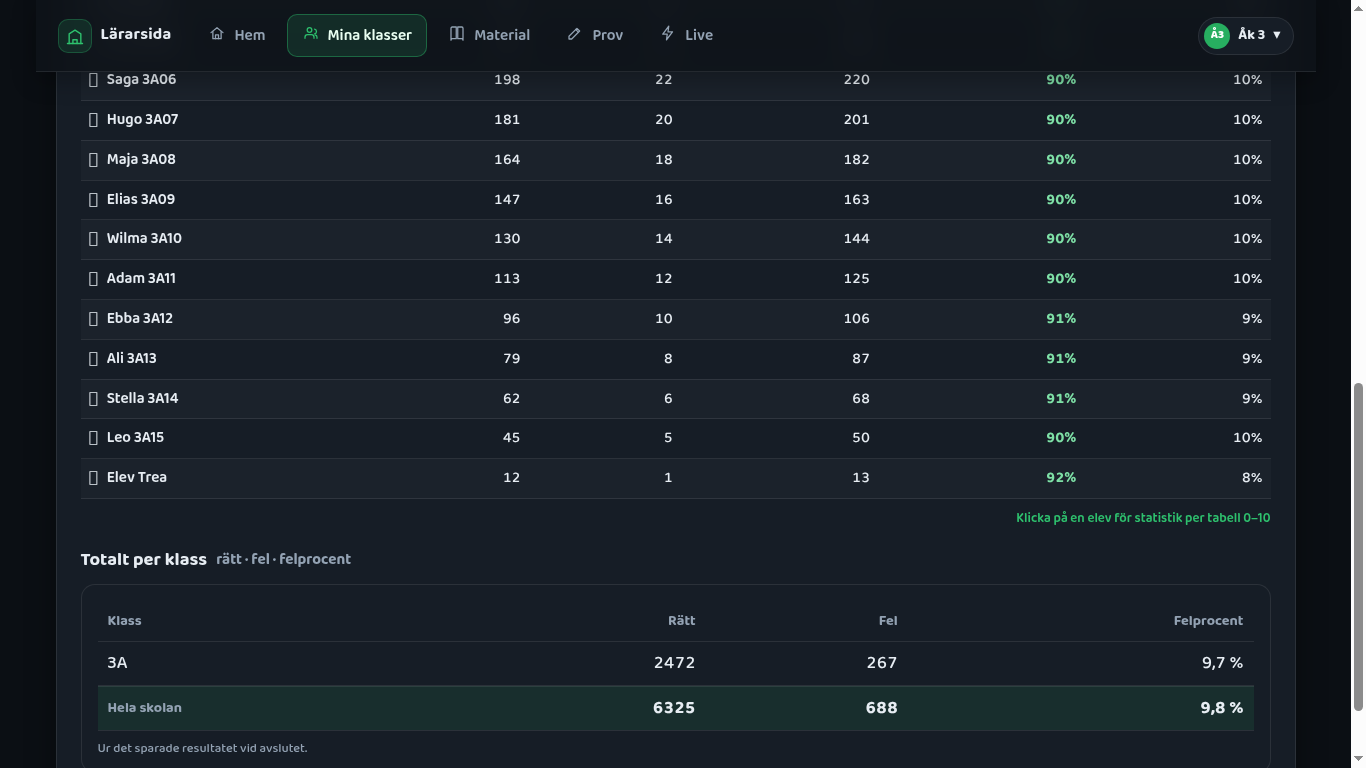
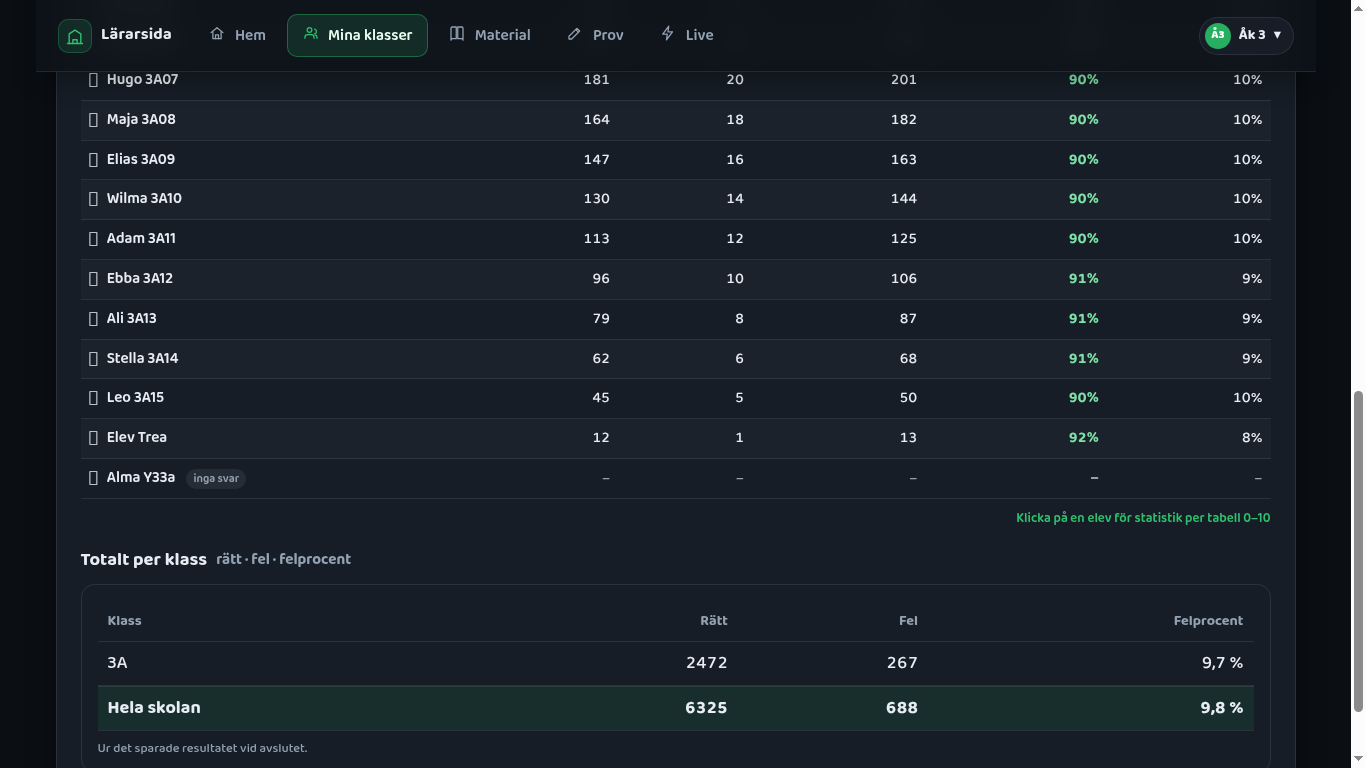
issue #863: rättningsrunda 1 – F1 loadStatsFor where classId== för årskurskonto (elev utan studentStats dödade fliken), F2 Hela skolan ur result.students (deltagande klasser), F3 kapat result → not + ?, F4 spec CRLF återställd, F5 radetiketter i normal stil; seed ny3a utan stats

diff --git a/src/tavling/mm-teacher-core.js b/src/tavling/mm-teacher-core.js
@@ -17,7 +17,7 @@
 //                                   → historik-ögonblicksbild (MathCompetition.result)
 //   studentRows(students, statsById) → en rad per elev för klasstabellen
 //   MM_COLUMNS, sortMmRows(rows, key, dir), nextMmSort(cur, key)
-//   classTotals({ stats, classes, participatingIds, classIds, skola })
+//   classTotals({ stats, classes, participatingIds, classIds, fullstandig, kapad })
 //                                   → rätt/fel/felprocent per klass, per årskurs
 //                                     och hela skolan (#863)
 //   formatFelprocent(pctWrong)      → "12,5 %" | "–"
@@ -248,61 +248,56 @@ const summa = (rows) => {
  * @param {object[]} a.classes          [{ id, name }] (namn; saknas → id)
  * @param {string[]} a.participatingIds matchens klasser (ordning = klassnamn)
  * @param {Set<string>|null} [a.classIds] årskurskontots klasser (null = admin, alla)
- * @param {object|null} [a.skola]       hela skolans totals när raderna är
- *                                      filtrerade (result.totals); annars
- *                                      summan av raderna
- * @returns {{ rows, arskurser, skola, filtrerad }}
- *   rows      [{ classId, name, correct, incorrect, total, pctWrong }] per klass
+ * @param {boolean} [a.fullstandig]     stats täcker ALLA matchens klasser (admin,
+ *                                      eller result.students) → Hela skolan kan
+ *                                      räknas även när raderna är filtrerade
+ * @param {boolean} [a.kapad]           result.students nådde RESULT_STUDENTS_MAX –
+ *                                      elever med få rätt kan saknas
+ * @returns {{ rows, arskurser, skola, mina, filtrerad, kapad, skolanLabel }}
+ *   rows      [{ classId, name, ak, correct, incorrect, total, pctWrong }] per
+ *             klass – årskurskontots egna klasser, annars alla
  *   arskurser [{ ak, label, correct, incorrect, total, pctWrong }] – bara när
- *             klasserna spänner över mer än en årskurs, annars []
- *   skola     { correct, incorrect, total, pctWrong } – hela skolan, eller
- *             null när kontot bara ser sina klasser och ingen skoltotal finns
+ *             raderna spänner över mer än en årskurs och någon årskurs har fler
+ *             än en klass, annars []
+ *   skola     { correct, incorrect, total, pctWrong } = summan av matchens
+ *             deltagande klasser (elever i klasser som lämnat matchen räknas
+ *             inte, som i Klasskampen), eller null när stats bara täcker
+ *             kontots egna klasser (pågående match, årskurskonto)
  *   mina      summan av rows när de är filtrerade ("Mina klasser"), annars null
  *   filtrerad true när rows inte är alla matchens klasser (årskurskonto)
  */
-export function classTotals({ stats, classes, participatingIds, classIds = null, skola = null }) {
+export function classTotals({ stats, classes, participatingIds, classIds = null, fullstandig = false, kapad = false }) {
   const byId = new Map((classes || []).map((k) => [k.id, k]));
   const alla = [...new Set(participatingIds || [])];
-  const mina = classIds ? alla.filter((id) => classIds.has(id)) : alla;
-  const sum = new Map(mina.map((id) => [id, { correct: 0, incorrect: 0 }]));
+  const sum = new Map(alla.map((id) => [id, { correct: 0, incorrect: 0 }]));
   for (const s of stats || []) {
     const acc = s && sum.get(s.classId);
     if (!acc) continue;
     acc.correct += Math.max(0, Number(s.correct) || 0);
     acc.incorrect += Math.max(0, Number(s.incorrect) || 0);
   }
-  const rows = mina
+  const allaRader = alla
     .map((classId) => {
       const { correct, incorrect } = sum.get(classId);
       const name = String(byId.get(classId)?.name || classId);
       return { classId, name, ak: arskursAvKlass(name), correct, incorrect, total: correct + incorrect, pctWrong: felprocent(correct, incorrect) };
     })
     .sort((a, b) => a.name.localeCompare(b.name, "sv"));
-  // Delsumma per årskurs (#845 arskursAvKlass) – bara om det finns fler än en.
+  const rows = classIds ? allaRader.filter((r) => classIds.has(r.classId)) : allaRader;
+  // Delsumma per årskurs (#845 arskursAvKlass) – bara om det finns fler än en
+  // (och någon årskurs har fler än en klass – annars vore delsumman = klassraden).
   const perAk = new Map();
   for (const r of rows) {
     if (!perAk.has(r.ak)) perAk.set(r.ak, []);
     perAk.get(r.ak).push(r);
   }
   const akOrdning = [...perAk.keys()].sort((a, b) => (a === OVRIGA ? 1 : b === OVRIGA ? -1 : a - b));
-  // (och någon årskurs har fler än en klass – annars vore delsumman = klassraden).
   const arskurser = perAk.size > 1 && [...perAk.values()].some((l) => l.length > 1)
     ? akOrdning.map((ak) => ({ ak, label: arskursLabel(ak), ...summa(perAk.get(ak)) }))
     : [];
-  const filtrerad = mina.length !== alla.length;
-  const egen = summa(rows);
-  // Hela skolan: det sparade result.totals när det finns (räknat på ALLA
-  // elever vid avslutet – result.students är kapat vid RESULT_STUDENTS_MAX),
-  // annars summan av raderna; filtrerade rader utan skoltotal → ingen rad.
-  let total = egen;
-  if (skola && Number.isFinite(Number(skola.correct))) {
-    const c = Math.max(0, Number(skola.correct) || 0);
-    const w = Math.max(0, Number(skola.incorrect) || 0);
-    total = { correct: c, incorrect: w, total: c + w, pctWrong: felprocent(c, w) };
-  } else if (filtrerad) {
-    total = null;
-  }
-  return { rows, arskurser, skola: total, mina: filtrerad ? egen : null, filtrerad, skolanLabel: SKOLAN };
+  const filtrerad = rows.length !== allaRader.length;
+  const skola = !filtrerad || fullstandig ? summa(allaRader) : null;
+  return { rows, arskurser, skola, mina: filtrerad ? summa(rows) : null, filtrerad, kapad: !!kapad, skolanLabel: SKOLAN };
 }
 
 /** Kolumner i visningsordning (spec: Elev | Rätt | Fel | Totalt | Rätt % | Fel %). */

diff --git a/src/tavling/teacher-mm-totalt.js b/src/tavling/teacher-mm-totalt.js
@@ -7,20 +7,23 @@
 // + totalraden "Hela skolan".
 //
 // Siffrorna (ren logik: mm-teacher-core.classTotals, HTML: mm-totalt-html.js):
-//   • avslutad med sparat result → ur result.students/result.totals, INGA
-//     extra läsningar (ögonblicksbilden tas vid avslutet).
+//   • avslutad med sparat result → ur result.students, INGA extra läsningar
+//     (ögonblicksbilden tas vid avslutet; kapad vid RESULT_STUDENTS_MAX → not
+//     och "?" i stället för "–"). Hela skolan = matchens deltagande klasser
+//     (inte result.totals, som även räknar elever i klasser som lämnat matchen).
 //   • pågående (eller avslutad utan result) → studentStats via
 //     mm-teacher-data.loadStatsForClasses: en läsning per elev som svarat.
 //     Fel per klass finns inte aggregerat (classCounters har bara rätt).
 // Behörighet (#678): admin ser alla klasser + Hela skolan. Ett årskurskonto
 // ser bara sina klasser (reglerna släpper bara dem) + "Mina klasser"; Hela
-// skolan visas för årskurskontot bara när det sparade result.totals finns
-// (avslutad match) – i en pågående match kan det inte läsa andras fel.
+// skolan visas för årskurskontot bara i en avslutad match (ur det sparade
+// result.students, samma summa som admin ser) – i en pågående match kan det
+// inte läsa andras fel.
 // Laddas DYNAMISKT (#271).
 // ============================================================================
 
 import { el, esc, icon } from "../teacher-shared.js";
-import { classTotals } from "./mm-teacher-core.js";
+import { RESULT_STUDENTS_MAX, classTotals } from "./mm-teacher-core.js";
 import { totalsHtml } from "./mm-totalt-html.js";
 
 /**
@@ -42,10 +45,14 @@ export function renderClassTotals(host, comp, { api, classes, role }) {
   const sparat = comp.result && Array.isArray(comp.result.students) ? comp.result : null;
   let busy = false;
 
-  const rita = (stats, skola) => {
-    const t = classTotals({ stats, classes, participatingIds: comp.participatingClassIds, classIds, skola });
+  const rita = (stats) => {
+    // Sparat result täcker alla klasser (kontot läser hela tävlingsdokumentet);
+    // pågående: bara admin läser alla klassers studentStats.
+    const kapad = !!sparat && (stats.length >= RESULT_STUDENTS_MAX || (Number(sparat.totals?.participants) || 0) > stats.length);
+    const t = classTotals({ stats, classes, participatingIds: comp.participatingClassIds, classIds, fullstandig: !!sparat || !classIds, kapad });
     body.innerHTML = totalsHtml(t);
     const delar = [sparat ? "Ur det sparade resultatet vid avslutet." : "Live-svar i multiplikation räknas in (#847)."];
+    if (kapad) delar.push(`Resultatet sparade bara de ${RESULT_STUDENTS_MAX} elever som hade flest rätt – siffrorna kan vara lägre än de verkliga (? = kan saknas).`);
     if (t.filtrerad && !t.skola) delar.push("Hela skolan visas när matchen är avslutad.");
     not.textContent = delar.join(" ");
   };
@@ -56,10 +63,10 @@ export function renderClassTotals(host, comp, { api, classes, role }) {
     btn.disabled = true;
     try {
       if (sparat) {
-        rita(sparat.students, sparat.totals);
+        rita(sparat.students);
       } else {
         const stats = await api.loadStatsForClasses(comp.id, classIds ? [...classIds] : null);
-        rita(stats, null);
+        rita(stats);
         stamp.textContent = `Uppdaterad ${new Date().toLocaleTimeString("sv-SE", { hour: "2-digit", minute: "2-digit", second: "2-digit" })}`;
       }
     } catch (err) {

diff --git a/test/mm-teacher-totalt-863.test.js b/test/mm-teacher-totalt-863.test.js
@@ -72,10 +72,11 @@ describe("classTotals – årskurskonto (bara egna klasser)", () => {
     assert.equal(t.skola, null);
     assert.deepEqual(t.arskurser, []);
   });
-  it("avslutad: Hela skolan ur det sparade result.totals som ett enda tal", () => {
-    const t = classTotals({ stats, classes, participatingIds: ids, classIds: egna, skola: { correct: 22, incorrect: 5 } });
+  it("avslutad (fullständiga stats ur result.students): Hela skolan som ett enda tal, bara egna rader", () => {
+    const t = classTotals({ stats, classes, participatingIds: ids, classIds: egna, fullstandig: true });
     assert.deepEqual(t.skola, { correct: 22, incorrect: 5, total: 27, pctWrong: 18.5 });
     assert.deepEqual(t.rows.map((r) => r.name), ["3A"]);
+    assert.equal(t.filtrerad, true);
   });
   it("kontot utan klasser i matchen → inga rader", () => {
     const t = classTotals({ stats, classes, participatingIds: ids, classIds: new Set(["9z"]) });
@@ -99,10 +100,20 @@ describe("avslutad match: samma siffror ur result som ur studentStats", () => {
     assert.deepEqual(sparat.rows, live.rows);
     assert.deepEqual(sparat.skola, live.skola);
   });
-  it("admin: Hela skolan ur result.totals även när result.students är kapat", () => {
-    const t = classTotals({ stats: stats.slice(0, 1), classes, participatingIds: ids, skola: { correct: 22, incorrect: 5 } });
-    assert.deepEqual(t.skola, { correct: 22, incorrect: 5, total: 27, pctWrong: 18.5 });
-    assert.equal(t.rows[0].correct, 10);
+  it("Hela skolan = matchens klasser, inte result.totals (klass som lämnat matchen räknas inte)", () => {
+    const result = buildResult({ scores: [], stats: stats.filter(Boolean), counters: [], classes, participatingIds: ids, now: 0 });
+    assert.equal(result.totals.correct, 121); // 5x-eleven är med i totals …
+    const t = classTotals({ stats: result.students, classes, participatingIds: ids, fullstandig: true });
+    assert.equal(t.skola.correct, 22); // … men inte i Hela skolan
+    assert.equal(t.skola.incorrect, 5);
+  });
+  it("kapat result: flaggan följer med, rader utan svar visar ? i stället för –", () => {
+    const t = classTotals({ stats: stats.slice(0, 1), classes, participatingIds: ids, fullstandig: true, kapad: true });
+    assert.equal(t.kapad, true);
+    const html = totalsHtml(t);
+    assert.match(html, /<td>4B<\/td><td class="lrt-num"><span class="lrt-dash mmt-okant"[^>]*>\?<\/span>/);
+    assert.doesNotMatch(html, /inga svar än/);
+    assert.equal(classTotals({ stats, classes, participatingIds: ids }).kapad, false);
   });
 });
 

diff --git a/src/tavling/mm-totalt-html.js b/src/tavling/mm-totalt-html.js
@@ -12,9 +12,11 @@ import { formatFelprocent } from "./mm-teacher-core.js";
 
 const esc = (s) => String(s == null ? "" : s).replace(/[&<>"]/g, (c) => `&#${c.charCodeAt(0)};`);
 const dash = `<span class="lrt-dash" aria-label="inga svar än">–</span>`;
+// Kapat result (#863 F3): en klass utan rader kan ha svar som inte sparades.
+const okant = `<span class="lrt-dash mmt-okant" title="Kan saknas i det kapade resultatet" aria-label="okänt – kapat resultat">?</span>`;
 
-function rad(r, cls = "") {
-  const n = (v) => (r.total > 0 ? String(v) : dash);
+function rad(r, cls = "", kapad = false) {
+  const n = (v) => (r.total > 0 ? String(v) : kapad ? okant : dash);
   const namn = cls ? `<th scope="row">${esc(r.name)}</th>` : `<td>${esc(r.name)}</td>`;
   return `<tr class="${cls}">${namn}<td class="lrt-num">${n(r.correct)}</td><td class="lrt-num">${n(r.incorrect)}</td>
     <td class="lrt-num">${formatFelprocent(r.pctWrong)}</td></tr>`;
@@ -27,15 +29,15 @@ export function totalsHtml(t) {
   // Flera årskurser: klasserna årskursvis med en delsumma efter varje; annars bara klasserna.
   if (t.arskurser.length) {
     for (const a of t.arskurser) {
-      body.push(...t.rows.filter((r) => r.ak === a.ak).map((r) => rad(r)));
-      body.push(rad({ ...a, name: `${a.label} totalt` }, "mmt-tot-ak"));
+      body.push(...t.rows.filter((r) => r.ak === a.ak).map((r) => rad(r, "", t.kapad)));
+      body.push(rad({ ...a, name: `${a.label} totalt` }, "mmt-tot-ak", t.kapad));
     }
   } else {
-    body.push(...t.rows.map((r) => rad(r)));
+    body.push(...t.rows.map((r) => rad(r, "", t.kapad)));
   }
   // "Mina klasser" bara när den säger något mer än den enda klassraden.
-  if (t.mina && t.rows.length > 1) body.push(rad({ ...t.mina, name: "Mina klasser" }, "mmt-tot-skola"));
-  if (t.skola) body.push(rad({ ...t.skola, name: t.skolanLabel }, "mmt-tot-skola"));
+  if (t.mina && t.rows.length > 1) body.push(rad({ ...t.mina, name: "Mina klasser" }, "mmt-tot-skola", t.kapad));
+  if (t.skola) body.push(rad({ ...t.skola, name: t.skolanLabel }, "mmt-tot-skola", t.kapad));
   return `<div class="table-scroll"><table class="tbl mmt-totalt-tbl">
     <thead><tr><th scope="col">Klass</th><th scope="col" class="lrt-num">Rätt</th>
       <th scope="col" class="lrt-num">Fel</th><th scope="col" class="lrt-num">Felprocent</th></tr></thead>

diff --git a/src/tavling/mm-teacher-data.js b/src/tavling/mm-teacher-data.js
@@ -11,7 +11,8 @@
 // Läsningar (KVOT, incident #114 – aldrig svar per elev i tabeller):
 //   listCompetitions        → alla tävlingar (få dokument)
 //   competitionsForClass    → where participatingClassIds array-contains klass
-//   loadStatsFor(cid, ids)  → studentStats för EN klass (documentId in, 30 åt gången)
+//   loadStatsFor(cid, ids, classId) → studentStats för EN klass (admin: documentId
+//                             in, 30 åt gången; årskurskonto: where classId ==)
 //   loadStatsForClasses(cid, classIds) → studentStats för klasserna (#863):
 //                             admin (null) = hela samlingen i EN fråga; års-
 //                             kurskonto = where classId in [...], 30 åt gången
@@ -175,10 +176,23 @@ export async function resetCompetition(cid, onProgress) {
   return counts;
 }
 
-/** studentStats för givna elever (en klass) → Map uid → dokument. */
-export async function loadStatsFor(cid, ids) {
+/**
+ * studentStats för givna elever (en klass) → Map uid → dokument.
+ * Årskurskonto (#863 F1): `documentId in [...]` nekas av reglerna så fort en
+ * elev saknar dokument (resource.data.classId på ett dokument som inte finns)
+ * – därför frågar kontot `where classId == classId` (bara befintliga dokument,
+ * reglerna släpper klassen) och väljer eleverna i klienten. Admin behåller
+ * documentId in (isAdmin() kortsluter regeln).
+ */
+export async function loadStatsFor(cid, ids, classId) {
   const uniq = [...new Set((ids || []).filter(Boolean))];
   const out = new Map();
+  if (classId && !isAdmin()) {
+    const vill = new Set(uniq);
+    const snap = await getDocs(query(collection(db, COL, cid, "studentStats"), where("classId", "==", classId)));
+    snap.docs.forEach((d) => vill.has(d.id) && out.set(d.id, withId(d)));
+    return out;
+  }
   const chunks = [];
   for (let i = 0; i < uniq.length; i += 30) chunks.push(uniq.slice(i, i + 30));
   await Promise.all(

diff --git a/src/tavling/mm-larare.css b/src/tavling/mm-larare.css
@@ -102,7 +102,8 @@
 .teacher-dark .mmt-class-totalt { margin-top: 18px; }
 .teacher-dark .mmt-totalt-tbl { min-width: 420px; }
 .teacher-dark .mmt-totalt-tbl th, .teacher-dark .mmt-totalt-tbl td { padding: 8px 10px; border-bottom: 1px solid var(--t-border); }
-.teacher-dark .mmt-totalt-tbl th[scope="row"] { text-align: left; }
+.teacher-dark .mmt-totalt-tbl th[scope="row"] { text-align: left; font-size: inherit; color: inherit; }
+.teacher-dark .mmt-totalt-tbl .mmt-okant { cursor: help; }
 .teacher-dark .mmt-totalt-tbl .mmt-tot-ak th, .teacher-dark .mmt-totalt-tbl .mmt-tot-ak td { background: rgba(142, 124, 240, 0.08); font-weight: 600; }
 .teacher-dark .mmt-totalt-tbl .mmt-tot-skola th, .teacher-dark .mmt-totalt-tbl .mmt-tot-skola td { background: rgba(46, 193, 110, 0.10); font-weight: 700; border-top: 2px solid var(--t-border); }
 .teacher-dark .mmt-lista { list-style: none; margin: 0; padding: 0; max-height: 520px; overflow: auto; }

diff --git a/src/tavling/teacher-mm-results.js b/src/tavling/teacher-mm-results.js
@@ -164,7 +164,7 @@ export function renderStudentResults(ctx, host, comp, classes, api) {
     body.replaceChildren(el(`<div class="spinner">Laddar elevresultat…</div>`));
     try {
       const ids = Array.isArray(k.studentIds) ? k.studentIds : [];
-      const [students, statsById] = await Promise.all([getStudentsByIds(ids), api.loadStatsFor(comp.id, ids)]);
+      const [students, statsById] = await Promise.all([getStudentsByIds(ids), api.loadStatsFor(comp.id, ids, k.id)]);
       if (sel.value !== k.id) return;
       students.sort((a, b) => String(a.namn || "").localeCompare(String(b.namn || ""), "sv"));
       renderMmTable(ctx, body, { students, statsById, competition: comp });

diff --git a/src/tavling/teacher-mm-stats.js b/src/tavling/teacher-mm-stats.js
@@ -283,7 +283,7 @@ export async function renderClassMattematchen(ctx, host, { classId, students, da
     const comp = comps.find((c) => c.id === sel.value);
     body.replaceChildren(el(`<div class="spinner">Laddar resultat…</div>`));
     try {
-      const statsById = await api.loadStatsFor(comp.id, students.map((s) => s.id));
+      const statsById = await api.loadStatsFor(comp.id, students.map((s) => s.id), classId);
       if (sel.value !== comp.id) return;
       renderMmTable(ctx, body, { students, statsById, competition: comp });
       totalt(comp);

diff --git a/docs/spec-mattematchen-live.md b/docs/spec-mattematchen-live.md
@@ -563,9 +563,12 @@ vald period – årskurskontots väg), för en **pågående** match och för en
 `teacher-mm-totalt.js` – allt laddas lat):
 
 - **Avslutad match med sparat `result`:** inga extra läsningar. Raderna räknas
-  ur `result.students` (classId/correct/incorrect per elev, högst
-  `RESULT_STUDENTS_MAX` = 2000) och Hela skolan ur `result.totals`
-  (räknat på ALLA elever vid avslutet).
+  OCH Hela skolan ur `result.students` (classId/correct/incorrect per elev)
+  – inte ur `result.totals`, som även räknar elever i klasser som lämnat
+  matchen (Hela skolan = summan av matchens deltagande klasser, som
+  Klasskampen). `result.students` är kapat vid `RESULT_STUDENTS_MAX` = 2000
+  (de med flest rätt); då visas en not och klasser utan rader får "?" i
+  stället för "–".
 - **Pågående match** (eller avslutad utan `result`): `studentStats` läses –
   **en läsning per elev som svarat**, bara när läraren öppnar vyn eller
   trycker Uppdatera (ingen lyssnare, ingen automatisk omläsning). Admin
@@ -578,15 +581,19 @@ vald period – årskurskontots väg), för en **pågående** match och för en
 - Inga regel- eller indexändringar: `studentStats` läses redan med
   `hasClass(resource.data.classId)` (`test/firestore-rules-roller-statistik-
   material.test.js` täcker `where classId in`, admin listar hela samlingen
-  som vid avslutet).
+  som vid avslutet). Klasstabellens `loadStatsFor` frågar för ett
+  årskurskonto `where classId == klassen` i stället för `documentId in`:
+  en elev utan `studentStats`-dokument gav annars regelfel
+  (`resource.data` på ett dokument som inte finns) och hela fliken dog.
 
 **Behörighet (#678):**
 
 - **Admin** ser alla deltagande klasser + Hela skolan.
 - **Årskurskonto** ser bara sina egna klasser i matchen + raden **"Mina
-  klasser"** (bara när det har fler än en klass i matchen). **Hela skolan** visas för kontot bara i en **avslutad** match
-  (ur det sparade `result.totals`, som ett enda aggregerat tal – inga andra
-  klassers rader). I en **pågående** match visas Hela skolan inte för
+  klasser"** (bara när det har fler än en klass i matchen). **Hela skolan**
+  visas för kontot bara i en **avslutad** match (ur det sparade
+  `result.students` – kontot läser hela tävlingsdokumentet – som ett enda
+  aggregerat tal, samma summa som admin ser; inga andra klassers rader). I en **pågående** match visas Hela skolan inte för
   årskurskontot: reglerna släpper bara det egna klassernas `studentStats`,
   och felen finns inte aggregerade någon annanstans. Beslut: hellre inget tal
   än ett halvt (rätt från `classCounters` utan fel), och ingen ny
